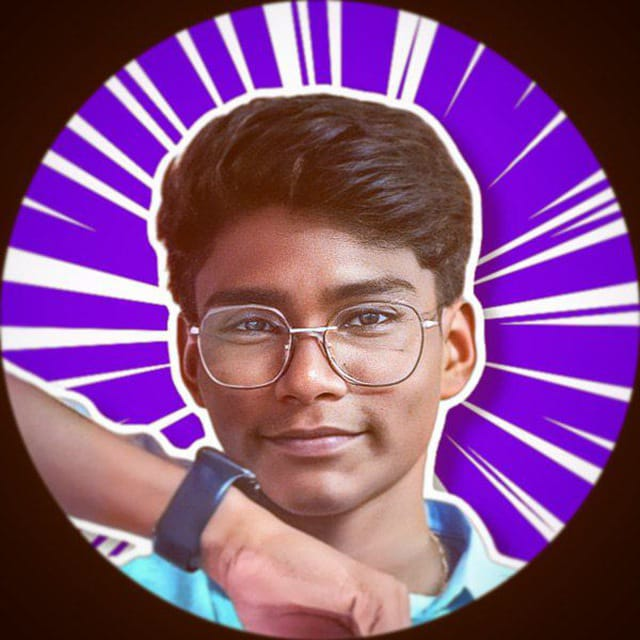
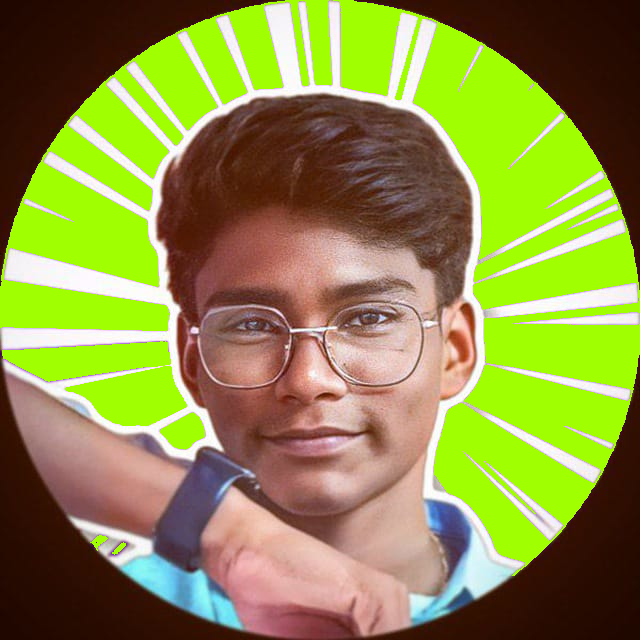
Add files via upload

Changed region(s): [[0.0, 0.0, 1.0, 0.9062], [0.125, 0.8438, 0.1875, 0.875]]

diff --git a/styles.css b/styles.css
@@ -15,11 +15,11 @@ body {
 /* Header Styles */
 header {
     padding: 10px;
-    background: rgba(162, 0, 255, 0.2);
-    box-shadow: 0 4px 30px rgba(0, 0, 0, 0.1);
+    background: rgba(0, 255, 81, 0);
+    box-shadow: 0 4px 30px rgba(85, 255, 0, 0.129);
     backdrop-filter: blur(5px);
     -webkit-backdrop-filter: blur(5px);
-    border: 1px solid rgba(162, 0, 255, 0.2);
+ 
         color: #fff;
     position: fixed;
     width: 100%;
@@ -43,17 +43,14 @@ nav {
   
 }
 
-.logo span{
-
-    color:#9100f8;
-    text-shadow: none;
-
-}
 
 .logo img{
 
-   width: 30px;
-   height: 30px;
+   width: 80px;
+   height: 40px;
+   overflow: hidden;
+   object-fit: cover;
+ 
    transform: translate(4px,-4px);
 
 }
@@ -166,7 +163,7 @@ nav {
 /* Gradient text for hero title */
 .hero-text h1 span{
     font-size: 2em;
-    background: linear-gradient(45deg, #4b0082, #bb00ff, #4b0082, #bb00ff);
+    background: linear-gradient(45deg, #4a8200, #d0ff00, #238200, #66ff00);
     -webkit-background-clip: text;
     color: transparent;
     background-clip: text;
@@ -185,7 +182,7 @@ nav {
     margin-top: 20px;
     padding: 10px 20px;
     /* From https://css.glass */
-background: rgba(162, 0, 255, 0.2);
+    background: rgba(114, 255, 79, 0.215);
 border-radius: 16px;
 box-shadow: 0 4px 30px rgba(0, 0, 0, 0.1);
 backdrop-filter: blur(5px);
@@ -425,26 +422,35 @@ border: 1px solid rgba(225, 225, 255, 0.2);
         flex-direction: column;
         gap: 30px;
         position: absolute;
-        top: 70px;
-        right: 20px;
-        background: #000;
+        top: 50px;
+        right: 0px;
+        left: 0px;
+     
         padding: 20px;
         align-items: center;
-        border-radius: 10px;
+        border-radius: 0px;
        padding-top: 30px;
        padding-bottom: 30px;
        padding-right: 10px;
        padding-left: 10px;
-       background:#4b0082;
-       border: 1px solid rgb(255, 255, 255);
+       background: rgb(0, 0, 0);
+       box-shadow: 0 4px 30px rgba(0, 0, 0, 0.1);
+       backdrop-filter: blur(5px);
+       -webkit-backdrop-filter: blur(5px);
+       border: 1px solid rgba(77, 255, 0, 0.529);
            color: #fff;
+    
+       width: 100%;
+       z-index: 1000;
+   
     }
 
     .nav-links a {
-        background: rgba(255, 255, 255, 0.2);
+ 
         padding: 10px;
+        
         border-radius: 5px;
-        border: 1px solid rgba(225, 225, 255);
+ 
 }
 
     }
@@ -452,9 +458,10 @@ border: 1px solid rgba(225, 225, 255, 0.2);
     .nav-links a:hover {
         background: rgba(255, 255, 255);
         color:#4b0082;
-        border: 1px solid rgba(255, 255, 255, 0.201);
-        padding: 10px;
+        border: 1px solid rgba(255, 255, 255, 0.2);
+        padding: 10px 10px;
         border-radius: 5px;
+     
 
     }
 

diff --git a/about.html b/about.html
@@ -13,13 +13,14 @@
 <body>
     <header>
         <nav>
-            <div class="logo"><img src="images/logo.png" alt="logo"></div>
+            <div class="logo"><span> Creative &nbsp;</span>Harish</div>
             <div class="hamburger" id="hamburger">
                 <div class="line"></div>
                 <div class="line"></div>
                 <div class="line"></div>
             </div>
             <ul class="nav-links" id="nav-links">
+                <li><a href="index.html">Home</a></li>
                 <li><a href="about.html">About</a></li>
                 <li><a href="service.html">Services</a></li>
                 <li><a href="#portfolio">Portfolio</a></li>
@@ -27,24 +28,13 @@
             </ul>
         </nav>
     </header>
-    
-    <section id="hero">
-        <div id="particles-js"></div>
-        <div class="hero-content">
-            <div class="hero-photo">
-                <img src="images/your-photo.jpg" alt="Your Photo">
-            </div>
-            <div class="hero-text">
-                <h1><span>Hello</span> I'am Harish</h1>
-                <p id="typing"></p>
-                <a href="#about">
-                <button class="cta-button">Learn More</button>
-                </a>
-            </div>
-            
-        </div>
-    </section>
-    <script src="https://cdn.jsdelivr.net/particles.js/2.0.0/particles.min.js"></script>
+<section id="about">
+    <div class="about-card">
+        <h2>About Me</h2>
+        <p>Hi, I'm Harish, a passionate and creative  graphic designer with a keen eye for detail and a love for visual storytelling. With over 1 years of experience in the design industry, I've had the pleasure of working on a variety of projects ranging from logo design and branding to web and app interfaces. My mission is to bring ideas to life through innovative and compelling designs that resonate with audiences and drive engagement. When I'm not designing, you can find me exploring new design trends, experimenting with different art forms, or simply enjoying a good book. Let's create something amazing together!
+
+        </p>
+    </div>
+</section>
 <script src="script.js"></script>
 </body>
-  

diff --git a/service.html b/service.html
@@ -1,0 +1,48 @@
+<section id="services">
+    <div class="service-card">
+        <h2>Service 1</h2>
+        <p>Details about Service 1.</p>
+    </div>
+    <div class="service-card">
+        <h2>Service 2</h2>
+        <p>Details about Service 2.</p>
+    </div>
+</section>
+<section id="portfolio">
+    <h2>My Portfolio</h2>
+    <div class="slider-container">
+        <button class="slider-btn" id="prevBtn">&#10094;</button>
+        <div class="slider">
+            <div class="slide"><img src="images/drawing.svg" alt="Project 1"></div>
+            <div class="slide"><img src="images/fantasy forest.svg" alt="Project 2"></div>
+            <div class="slide"><img src="images/spider-man-closeup-n0-1080x1920.svg" alt="Project 3"></div>
+            <div class="slide"><img src="images/fantasy planet.png" alt="Project 3"></div>
+            <div class="slide"><img src="images/hello.svg" alt="Project 3"></div>
+            <div class="slide"><img src="images/king.svg" alt="Project 3"></div>
+        </div>
+        <button class="slider-btn" id="nextBtn">&#10095;</button>
+    </div>
+    <button type="more" class="view">View More</button>
+</section>
+<section id="contact">
+    <h2>Contact Me</h2>
+    <div class="contact-card">
+        <form id="contactForm">
+            <label for="name">Name:</label>
+            <input type="text" id="name" name="name" required>
+            
+            <label for="email">Email:</label>
+            <input type="email" id="email" name="email" required>
+            
+            <label for="message">Message:</label>
+            <textarea id="message" name="message" rows="3" required></textarea>
+            
+            <button type="submit" class="submit-button">Send Message</button>
+        </form>
+    </div>
+</section>
+<button id="goUpBtn" title="Go to top">↑</button>
+<script src="https://cdn.jsdelivr.net/particles.js/2.0.0/particles.min.js"></script>
+<script src="script.js"></script>
+</body>
+</html>

diff --git a/script.js b/script.js
@@ -24,13 +24,13 @@ document.addEventListener('DOMContentLoaded', () => {
                 }
             },
             color: {
-                value: '#9100f8'
+                value: '#7fff00'
             },
             shape: {
                 type: 'circle',
                 stroke: {
                     width: 1,
-                    color: '#9100f8'
+                    color: '#7fff00'
                 },
                 polygon: {
                     nb_sides: 5
